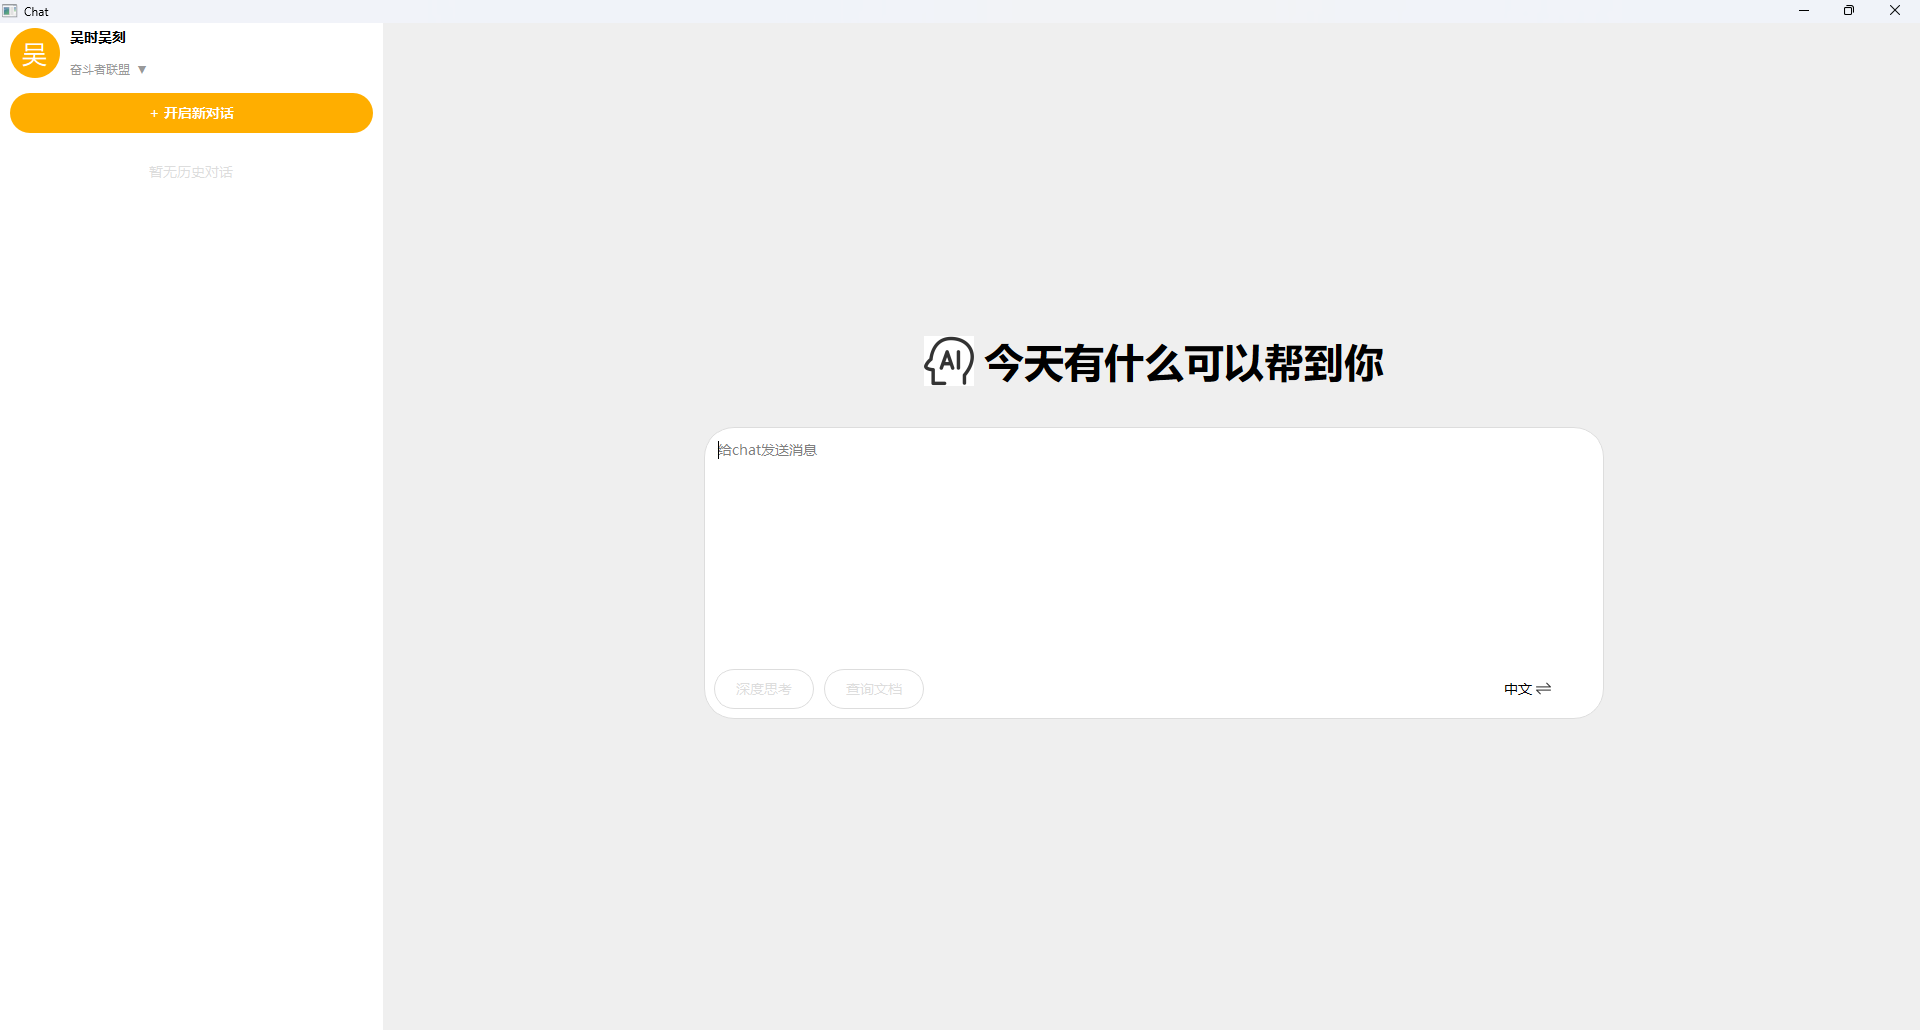
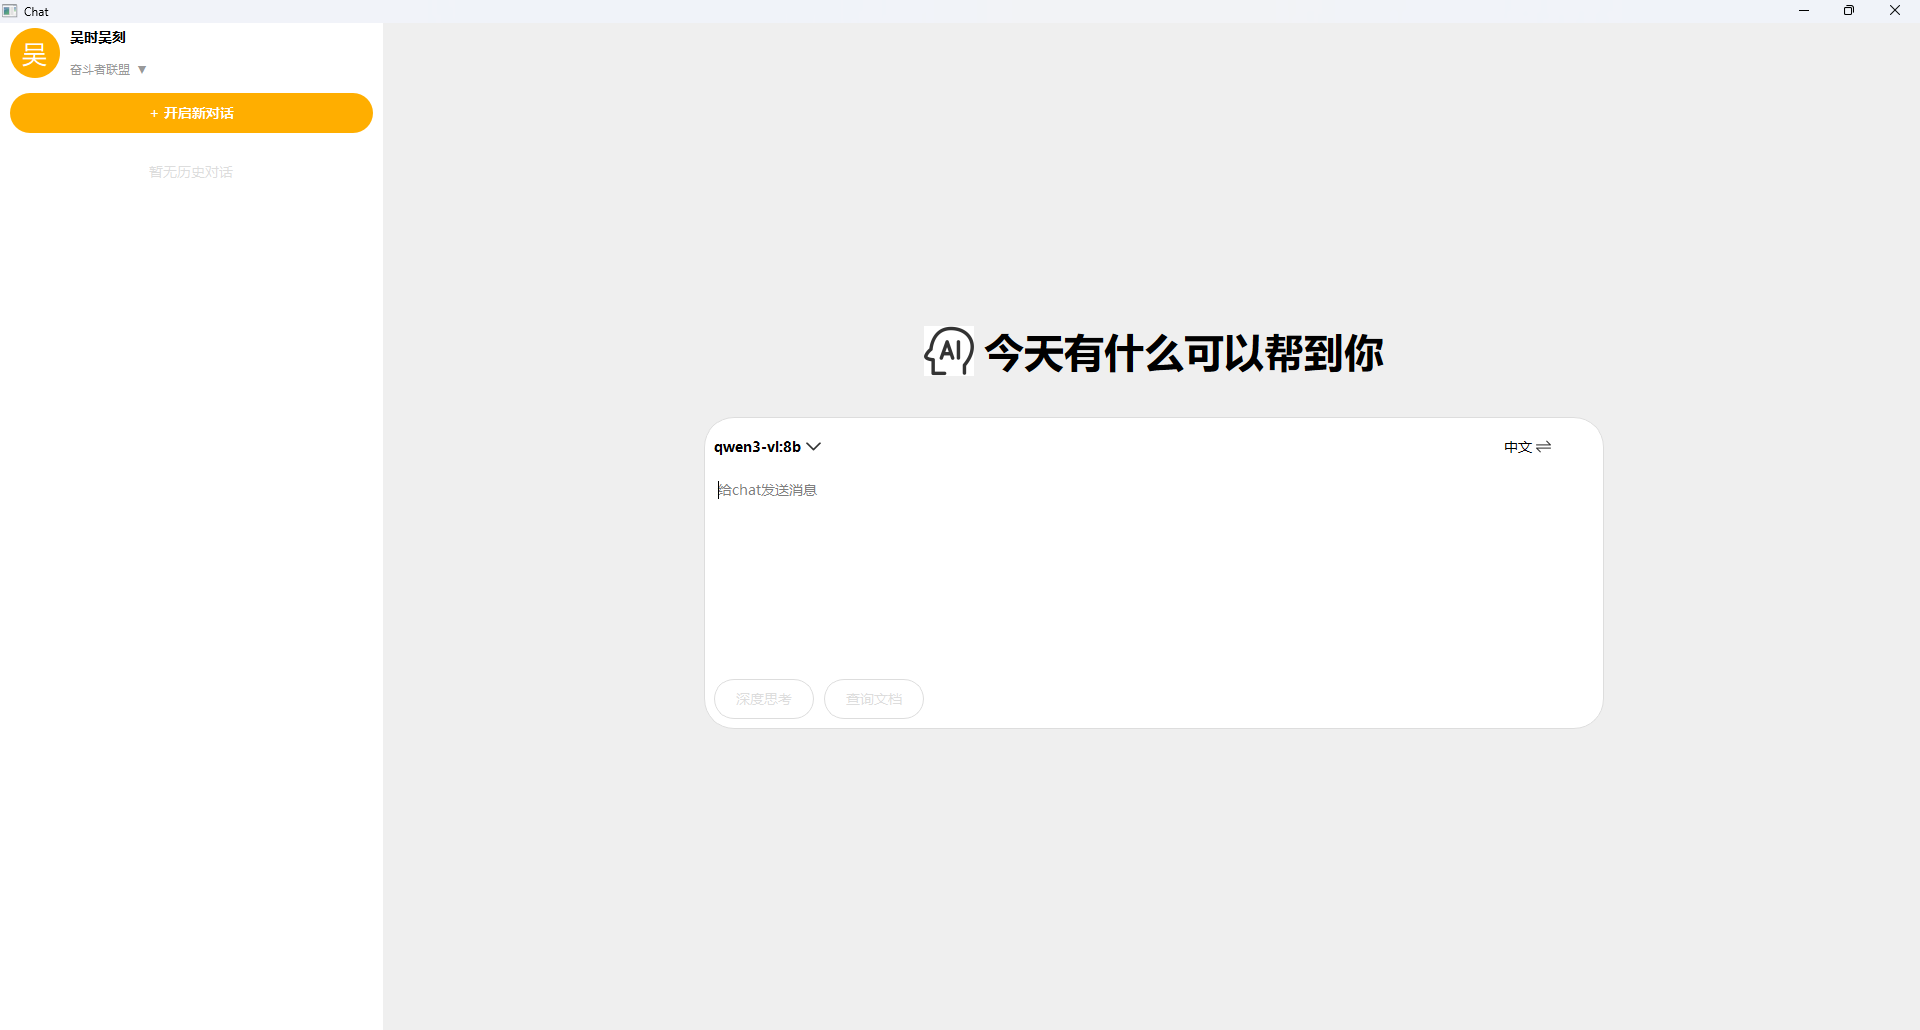
修改主界面样式

diff --git a/src/ui/rightpanel.cpp b/src/ui/rightpanel.cpp
@@ -1,3 +1,4 @@
+// RightPanel.cpp
 #include "RightPanel.h"
 #include "network/NetworkManager.h"
 #include "utils/TokenManager.h"
@@ -9,7 +10,7 @@
 #include <QJsonArray>
 #include <QCursor>
 #include <QMenu>
-#include <QMouseEvent>  // 添加这个头文件
+#include <QMouseEvent>
 
 RightPanel::RightPanel(QWidget *parent)
     : QWidget(parent)
@@ -57,14 +58,14 @@ void RightPanel::setupUI() {
     logoLabel->setFixedSize(Dimens::MIDDLE_AVATAR, Dimens::MIDDLE_AVATAR);
     logoLabel->setAlignment(Qt::AlignCenter);
     
-    // 欢迎语
+    // 欢迎语 - 使用黑色字体
     welcomeLabel = new QLabel("今天有什么可以帮到你", this);
     welcomeLabel->setStyleSheet(QString(
         "color: %1;"
         "font-size: %2px;"
         "font-weight: bold;"
         "background-color: transparent;"
-    ).arg(Colors::TEXT_COLOR.name())
+    ).arg(Colors::TEXT_COLOR.name())  // 黑色主标题
      .arg(Dimens::FONT_SIZE_XL));
     
     logoLayout->addWidget(logoLabel);
@@ -127,7 +128,7 @@ void RightPanel::setupUI() {
         "   height: 0px;"
         "}"
     ).arg(Colors::TEXT_COLOR.name())
-     .arg(Dimens::FONT_SIZE_NORMAL)
+     .arg(Dimens::FONT_SIZE_NORMAL)  // 统一字体大小
      .arg(Colors::DISABLE_COLOR.name())
      .arg(Colors::DISABLE_COLOR.name())
      .arg(Colors::PRIMARY_COLOR.name()));
@@ -167,8 +168,8 @@ void RightPanel::setupUI() {
         "   color: %3;"
         "}"
     ).arg(Colors::TEXT_COLOR.name())
-     .arg(Dimens::FONT_SIZE_NORMAL)
-     .arg(Colors::PRIMARY_COLOR.name()));
+     .arg(Dimens::FONT_SIZE_NORMAL)  // 统一字体大小
+     .arg(Colors::PRIMARY_COLOR.name()));  // 主色调
     
     // 下拉箭头按钮
     modelArrowBtn = new QPushButton(modelContainer);
@@ -196,18 +197,18 @@ void RightPanel::setupUI() {
             "   color: %3;"
             "}"
         ).arg(Colors::TEXT_COLOR.name())
-         .arg(Dimens::FONT_SIZE_NORMAL)
-         .arg(Colors::PRIMARY_COLOR.name()));
+         .arg(Dimens::FONT_SIZE_NORMAL)  // 统一字体大小
+         .arg(Colors::PRIMARY_COLOR.name()));  // 主色调
     }
     
     modelLayout->addWidget(modelNameBtn);
     modelLayout->addWidget(modelArrowBtn);
     
-    // 连接模型选择信号（使用按钮的clicked信号，而不是mousePressEvent）
+    // 连接模型选择信号
     connect(modelNameBtn, &QPushButton::clicked, this, &RightPanel::onModelMenuClicked);
     connect(modelArrowBtn, &QPushButton::clicked, this, &RightPanel::onModelMenuClicked);
     
-    // 中英文切换按钮（无边框，带图标，右对齐）
+    // 中英文切换按钮
     languageBtn = new QPushButton("中文", topButtonContainer);
     languageBtn->setCursor(Qt::PointingHandCursor);
     languageBtn->setFixedHeight(Dimens::BTN_HEIGHT);
@@ -222,7 +223,7 @@ void RightPanel::setupUI() {
         "   text-align: right;"
         "}"
     ).arg(Colors::TEXT_COLOR.name())
-     .arg(Dimens::FONT_SIZE_NORMAL)
+     .arg(Dimens::FONT_SIZE_NORMAL)  // 统一字体大小
      .arg(Dimens::PAGE_PADDING));
     
     // 加载切换图标
@@ -239,10 +240,11 @@ void RightPanel::setupUI() {
     // 设置图标在文字右侧
     languageBtn->setLayoutDirection(Qt::RightToLeft);
     
-    // 添加到顶部按钮布局
+    // 添加到顶部按钮布局 - 设置右边距为Dimens::PAGE_PADDING
     topButtonLayout->addWidget(modelContainer);
-    topButtonLayout->addStretch();  // 添加弹性空间，将语言按钮推到右边
+    topButtonLayout->addStretch();
     topButtonLayout->addWidget(languageBtn);
+    topButtonLayout->setContentsMargins(0, 0, Dimens::PAGE_PADDING, 0);  // 设置右边距
     
     // ========== 底部按钮区域 ==========
     buttonContainer = new QWidget(inputContainer);
@@ -275,9 +277,9 @@ void RightPanel::setupUI() {
         "}"
     ).arg(Colors::DISABLE_COLOR.name())
      .arg(Dimens::BTN_HEIGHT / 2)
-     .arg(Dimens::FONT_SIZE_NORMAL)
+     .arg(Dimens::FONT_SIZE_NORMAL)  // 统一字体大小
      .arg(Dimens::PAGE_PADDING)
-     .arg(Colors::PRIMARY_COLOR.name()));
+     .arg(Colors::PRIMARY_COLOR.name()));  // 主色调
     
     // 查询文档按钮
     searchDocBtn = new QPushButton("查询文档", buttonContainer);
@@ -302,16 +304,16 @@ void RightPanel::setupUI() {
         "}"
     ).arg(Colors::DISABLE_COLOR.name())
      .arg(Dimens::BTN_HEIGHT / 2)
-     .arg(Dimens::FONT_SIZE_NORMAL)
+     .arg(Dimens::FONT_SIZE_NORMAL)  // 统一字体大小
      .arg(Dimens::PAGE_PADDING)
-     .arg(Colors::PRIMARY_COLOR.name()));
+     .arg(Colors::PRIMARY_COLOR.name()));  // 主色调
     
     // 文档选择按钮（初始隐藏）
     docSelectionBtn = new QPushButton("选择文档", buttonContainer);
     docSelectionBtn->setCursor(Qt::PointingHandCursor);
     docSelectionBtn->setFixedHeight(Dimens::BTN_HEIGHT);
     docSelectionBtn->setMinimumWidth(100);
-    docSelectionBtn->setVisible(false);  // 初始隐藏
+    docSelectionBtn->setVisible(false);
     docSelectionBtn->setCheckable(true);
     docSelectionBtn->setChecked(false);
     docSelectionBtn->setStyleSheet(QString(
@@ -330,21 +332,65 @@ void RightPanel::setupUI() {
         "}"
     ).arg(Colors::DISABLE_COLOR.name())
      .arg(Dimens::BTN_HEIGHT / 2)
-     .arg(Dimens::FONT_SIZE_NORMAL)
+     .arg(Dimens::FONT_SIZE_NORMAL)  // 统一字体大小
      .arg(Dimens::PAGE_PADDING)
-     .arg(Colors::PRIMARY_COLOR.name()));
+     .arg(Colors::PRIMARY_COLOR.name()));  // 主色调
+    
+    // 发送按钮 - 圆形，背景色为DISABLE_COLOR
+    sendButton = new QPushButton(buttonContainer);
+    sendButton->setCursor(Qt::PointingHandCursor);
+    sendButton->setFixedSize(Dimens::BTN_HEIGHT, Dimens::BTN_HEIGHT);  // 设置为正方形
+    sendButton->setStyleSheet(QString(
+        "QPushButton {"
+        "   background-color: %1;"
+        "   border: none;"
+        "   border-radius: %2px;"  // 高度的一半，形成圆形
+        "}"
+        "QPushButton:hover {"
+        "   background-color: %3;"
+        "}"
+    ).arg(Colors::DISABLE_COLOR.name())
+     .arg(Dimens::BTN_HEIGHT / 2)
+     .arg(Colors::PRIMARY_COLOR.name()));  // 悬停时使用主色调
+    
+    // 加载发送图标
+    QPixmap sendPixmap(":/images/icon_send.png");
+    if (!sendPixmap.isNull()) {
+        sendButton->setIcon(QIcon(sendPixmap));
+        sendButton->setIconSize(QSize(Dimens::MIDDLE_ICON_SIZE, Dimens::MIDDLE_ICON_SIZE));
+    } else {
+        // 如果没有图标，使用文字代替
+        sendButton->setText("➤");
+        sendButton->setStyleSheet(QString(
+            "QPushButton {"
+            "   background-color: %1;"
+            "   color: white;"
+            "   border: none;"
+            "   border-radius: %2px;"
+            "   font-size: %3px;"
+            "}"
+            "QPushButton:hover {"
+            "   background-color: %4;"
+            "}"
+        ).arg(Colors::DISABLE_COLOR.name())
+         .arg(Dimens::BTN_HEIGHT / 2)
+         .arg(Dimens::FONT_SIZE_BIG)
+         .arg(Colors::PRIMARY_COLOR.name()));
+    }
     
     // 连接信号
     connect(deepThinkBtn, &QPushButton::toggled, this, &RightPanel::onDeepThinkToggled);
     connect(languageBtn, &QPushButton::clicked, this, &RightPanel::onLanguageToggle);
     connect(searchDocBtn, &QPushButton::toggled, this, &RightPanel::onSearchDocToggled);
     connect(docSelectionBtn, &QPushButton::toggled, this, &RightPanel::onDocSelectionToggled);
+    connect(sendButton, &QPushButton::clicked, this, &RightPanel::onSendClicked);
     
     // 将按钮添加到按钮布局
     buttonLayout->addWidget(deepThinkBtn);
     buttonLayout->addWidget(searchDocBtn);
     buttonLayout->addWidget(docSelectionBtn);
     buttonLayout->addStretch();  // 添加弹性空间
+    buttonLayout->addWidget(sendButton);  // 发送按钮在最右边
     
     // 将所有组件添加到容器布局
     containerLayout->addWidget(topButtonContainer);
@@ -467,8 +513,8 @@ void RightPanel::showModelPopupMenu() {
      .arg(Dimens::SMALL_MARGIN)
      .arg(Dimens::PAGE_PADDING)
      .arg(Colors::TEXT_COLOR.name())
-     .arg(Dimens::FONT_SIZE_NORMAL)
-     .arg(Colors::PRIMARY_COLOR.name()));
+     .arg(Dimens::FONT_SIZE_NORMAL)  // 统一字体大小
+     .arg(Colors::PRIMARY_COLOR.name()));  // 主色调
     
     for (const ModelInfo& model : modelList) {
         QAction* action = menu.addAction(model.modelName);
@@ -570,6 +616,24 @@ void RightPanel::onDocSelectionToggled() {
     qDebug() << "Doc selection toggled:" << docSelectionBtn->isChecked();
 }
 
+void RightPanel::onSendClicked() {
+    QString message = inputEdit->toPlainText().trimmed();
+    if (message.isEmpty()) {
+        qDebug() << "Empty message, not sending";
+        return;
+    }
+    
+    qDebug() << "Send button clicked, message:" << message.left(50) << "...";
+    qDebug() << "Current model:" << currentModel.modelName;
+    qDebug() << "Deep think:" << isDeepThinkSelected;
+    qDebug() << "Search doc:" << isSearchDocSelected;
+    
+    // TODO: 实现发送消息功能
+    
+    // 清空输入框
+    inputEdit->clear();
+}
+
 void RightPanel::updateButtonsStyle() {
     // 更新深度思考按钮样式
     if (isDeepThinkSelected) {
@@ -582,9 +646,9 @@ void RightPanel::updateButtonsStyle() {
             "   font-size: %3px;"
             "   padding: 0 %4px;"
             "}"
-        ).arg(Colors::PRIMARY_COLOR.name())
+        ).arg(Colors::PRIMARY_COLOR.name())  // 主色调
          .arg(Dimens::BTN_HEIGHT / 2)
-         .arg(Dimens::FONT_SIZE_NORMAL)
+         .arg(Dimens::FONT_SIZE_NORMAL)  // 统一字体大小
          .arg(Dimens::PAGE_PADDING));
     } else {
         deepThinkBtn->setStyleSheet(QString(
@@ -598,7 +662,7 @@ void RightPanel::updateButtonsStyle() {
             "}"
         ).arg(Colors::DISABLE_COLOR.name())
          .arg(Dimens::BTN_HEIGHT / 2)
-         .arg(Dimens::FONT_SIZE_NORMAL)
+         .arg(Dimens::FONT_SIZE_NORMAL)  // 统一字体大小
          .arg(Dimens::PAGE_PADDING));
     }
     
@@ -613,9 +677,9 @@ void RightPanel::updateButtonsStyle() {
             "   font-size: %3px;"
             "   padding: 0 %4px;"
             "}"
-        ).arg(Colors::PRIMARY_COLOR.name())
+        ).arg(Colors::PRIMARY_COLOR.name())  // 主色调
          .arg(Dimens::BTN_HEIGHT / 2)
-         .arg(Dimens::FONT_SIZE_NORMAL)
+         .arg(Dimens::FONT_SIZE_NORMAL)  // 统一字体大小
          .arg(Dimens::PAGE_PADDING));
     } else {
         searchDocBtn->setStyleSheet(QString(
@@ -629,7 +693,7 @@ void RightPanel::updateButtonsStyle() {
             "}"
         ).arg(Colors::DISABLE_COLOR.name())
          .arg(Dimens::BTN_HEIGHT / 2)
-         .arg(Dimens::FONT_SIZE_NORMAL)
+         .arg(Dimens::FONT_SIZE_NORMAL)  // 统一字体大小
          .arg(Dimens::PAGE_PADDING));
     }
     
@@ -644,9 +708,9 @@ void RightPanel::updateButtonsStyle() {
             "   font-size: %3px;"
             "   padding: 0 %4px;"
             "}"
-        ).arg(Colors::PRIMARY_COLOR.name())
+        ).arg(Colors::PRIMARY_COLOR.name())  // 主色调
          .arg(Dimens::BTN_HEIGHT / 2)
-         .arg(Dimens::FONT_SIZE_NORMAL)
+         .arg(Dimens::FONT_SIZE_NORMAL)  // 统一字体大小
          .arg(Dimens::PAGE_PADDING));
     } else {
         docSelectionBtn->setStyleSheet(QString(
@@ -660,7 +724,7 @@ void RightPanel::updateButtonsStyle() {
             "}"
         ).arg(Colors::DISABLE_COLOR.name())
          .arg(Dimens::BTN_HEIGHT / 2)
-         .arg(Dimens::FONT_SIZE_NORMAL)
+         .arg(Dimens::FONT_SIZE_NORMAL)  // 统一字体大小
          .arg(Dimens::PAGE_PADDING));
     }
 }

diff --git a/src/ui/rightpanel.h b/src/ui/rightpanel.h
@@ -54,6 +54,7 @@ private slots:
     void onDocSelectionToggled();
     void onModelMenuClicked();
     void onModelSelected();
+    void onSendClicked();          // 发送按钮点击处理
 
 private:
     void setupUI();
@@ -61,6 +62,7 @@ private:
     void loadModelList();
     void showModelPopupMenu();
     void updateCurrentModel(const ModelInfo& model);
+    
     
     // 布局
     QVBoxLayout* mainLayout;
@@ -100,6 +102,9 @@ private:
     bool isSearchDocSelected;      // 查询文档按钮选中状态
     bool isDocSelectionVisible;    // 文档选择按钮可见状态
     QString currentLanguage;       // 当前语言：zh/en
+
+    QPushButton* sendButton;      // 发送按钮
+    
 };
 
 #endif // RIGHTPANEL_H
